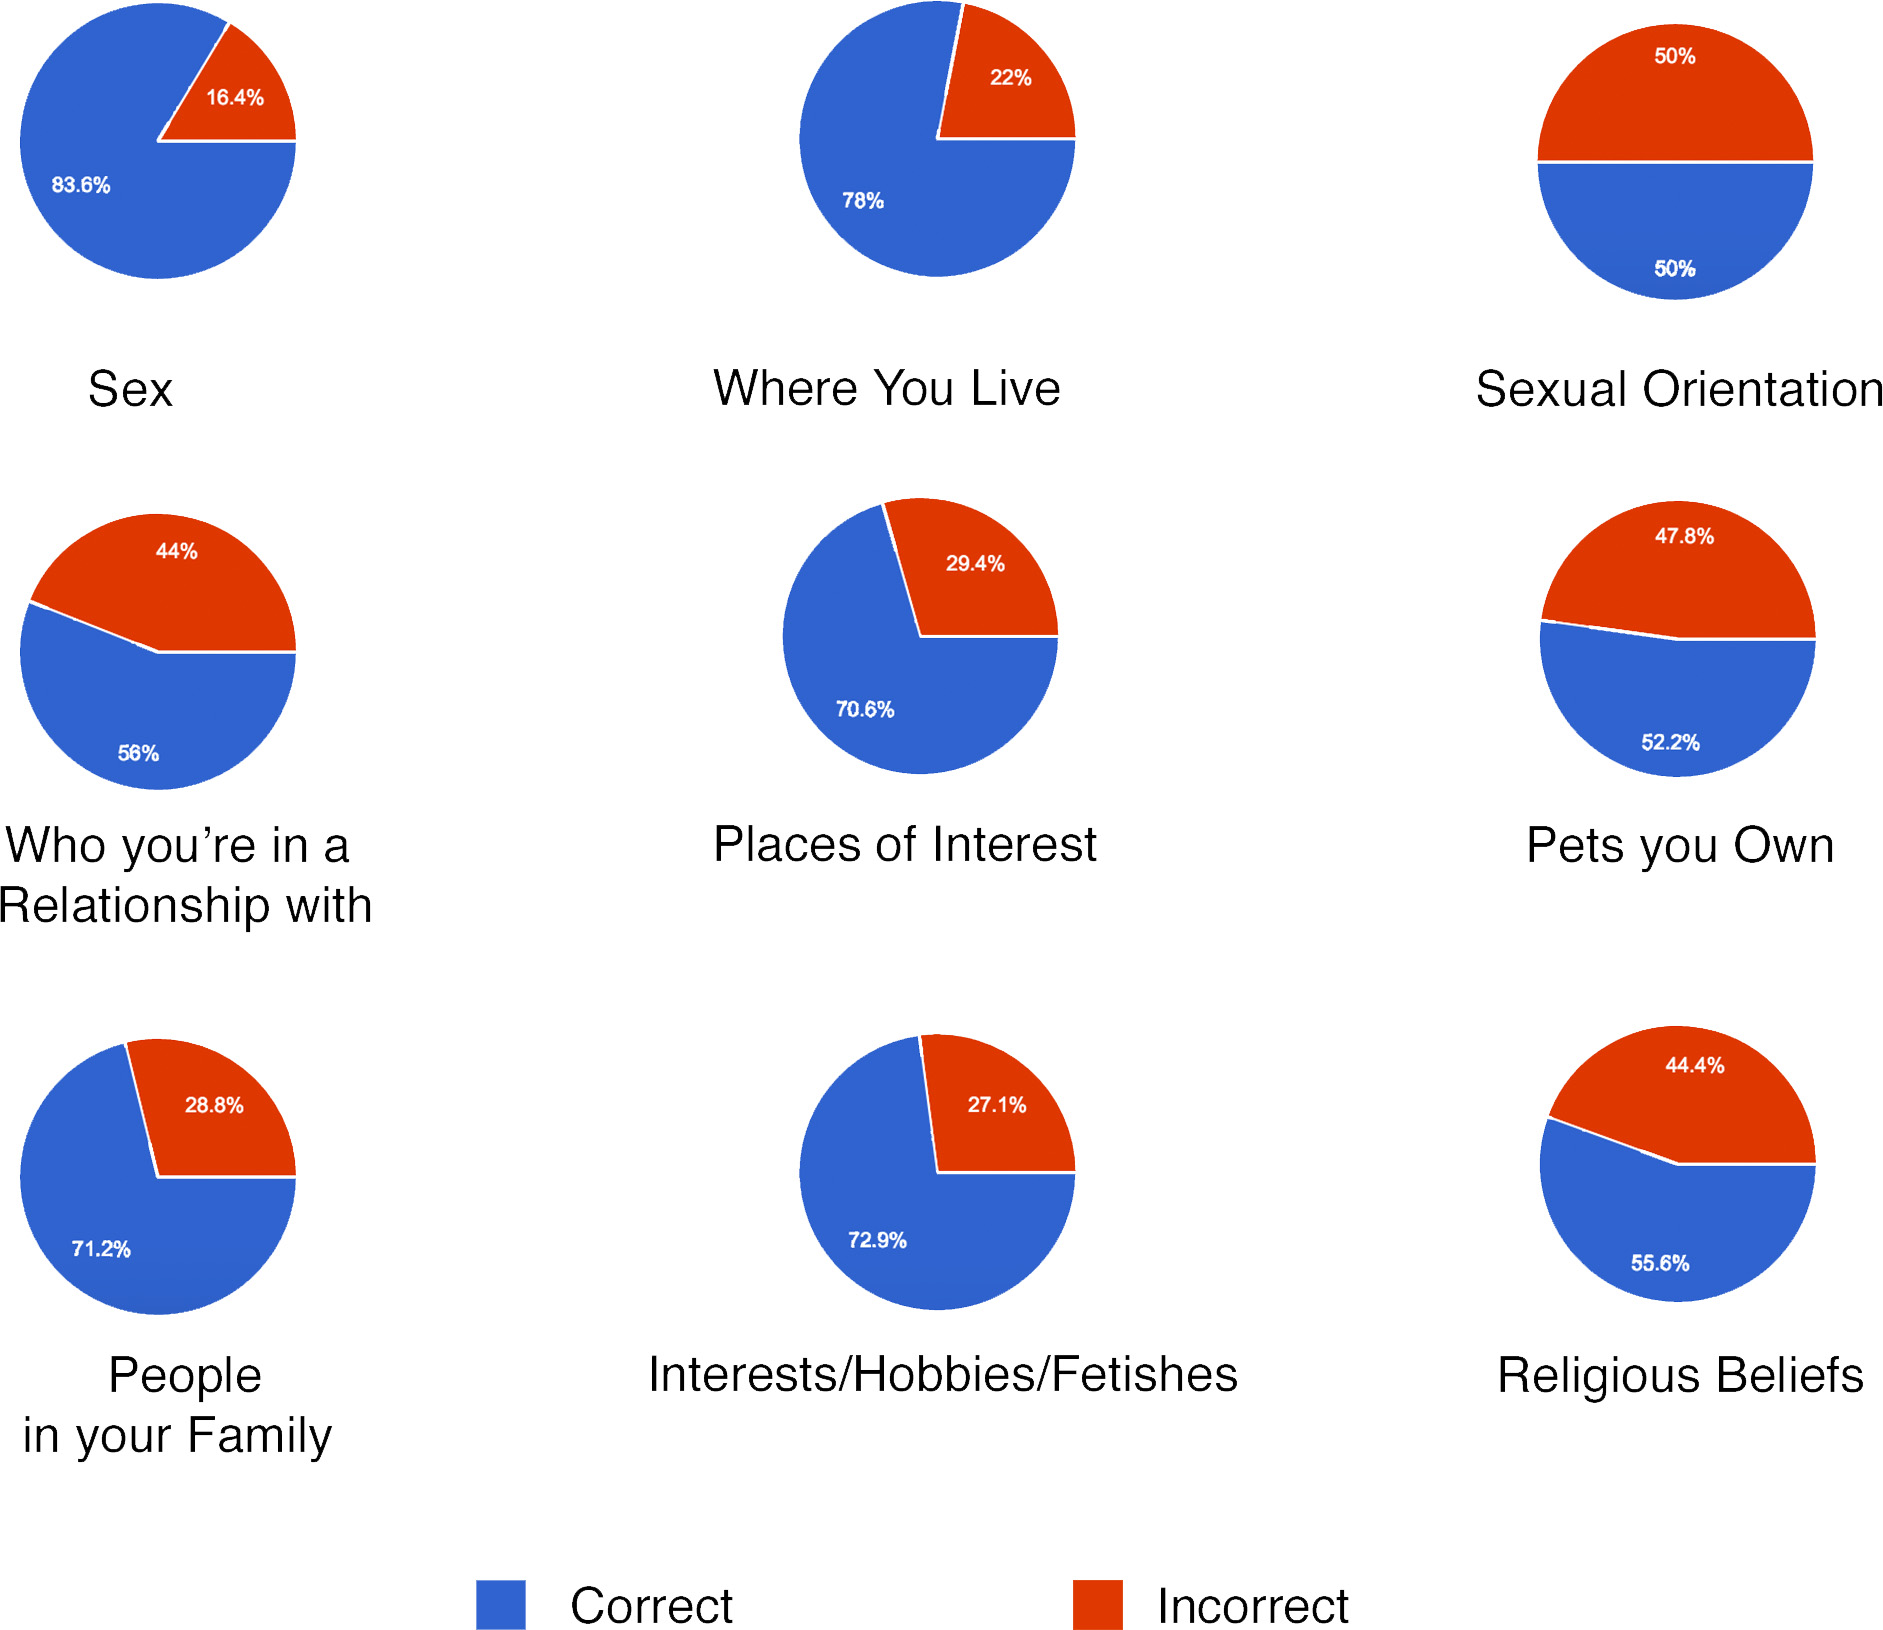
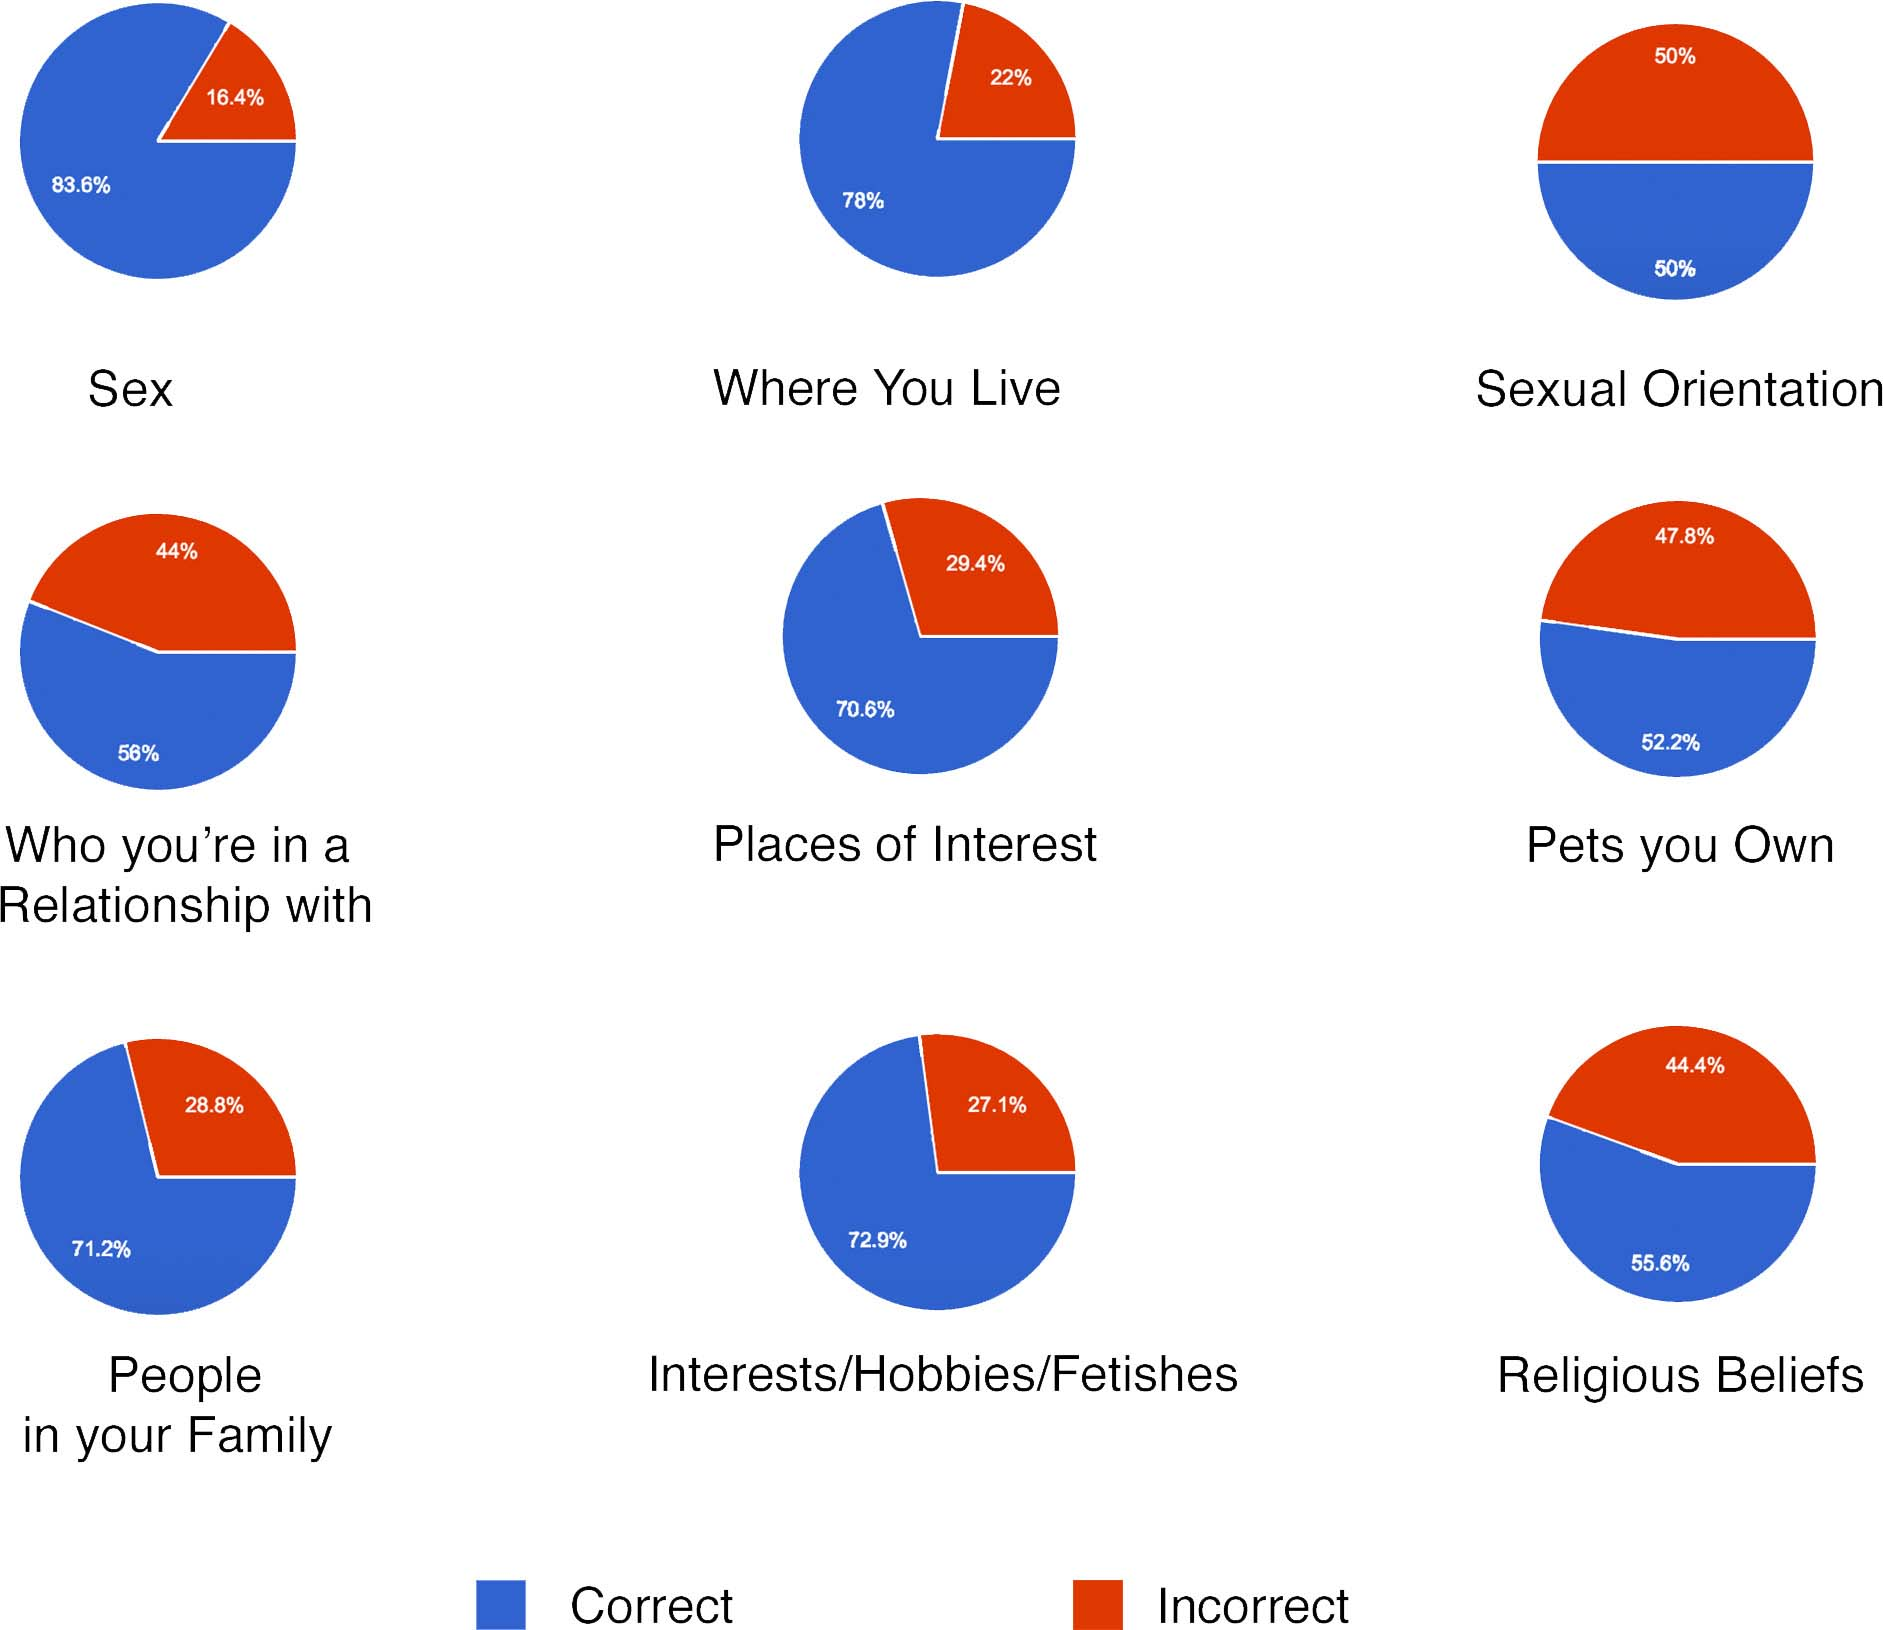
changed all images to jpg

diff --git a/projects/focus.html b/projects/focus.html
@@ -99,14 +99,14 @@
 								<h2>Features</h2>
 								<ul class="bxslider">
   <li class="app-feature">
-  	<img src="../images/project_images/focus/screen1.png"/>
+  	<img src="../images/project_images/focus/screen1.jpg"/>
   	<div class="app-feature content">
   		<h3>Configure Utility</h3>
 								<p>Every user is enabled to pick out which apps to track and select (on a scale of 1-10) how useful an app is to them. A simple way of explaining this to the user was, <i>“How many times out of 10 do use app A for productive tasks?”</i></p>
   	</div>
   </li>
   <li class="app-feature">
-  	<img src="../images/project_images/focus/screen2.png"/>
+  	<img src="../images/project_images/focus/screen2.jpg"/>
   	<div class="app-feature content">
 								<h3>Real Time Monitoring</h3>
 
@@ -115,7 +115,7 @@
   	</div>
   </li>
   <li class="app-feature">
-  	<img src="../images/project_images/focus/screen3.png"/>
+  	<img src="../images/project_images/focus/screen3.jpg"/>
   	<div class="app-feature content">
   		<h3>Aggregate Statistics</h3>
 
@@ -124,7 +124,7 @@
   	</div>
   </li>
   <li class="app-feature">
-  	<img src="../images/project_images/focus/screen4.png"/>
+  	<img src="../images/project_images/focus/screen4.jpg"/>
   	<div class="app-feature content">
   		<h3>App Wise Breakdown</h3>
 
@@ -133,7 +133,7 @@
   </li>
 
   <li class="app-feature">
-  	<img src="../images/project_images/focus/screen5.png"/>
+  	<img src="../images/project_images/focus/screen5.jpg"/>
   	<div class="app-feature content">
 								<h3>Zen Mode</h3>
 
@@ -149,15 +149,15 @@
   </ul>
 
 								<h2>Iterations</h2>
-  	<img class="project-img" src="../images/project_images/focus/pic1.png"/>
+  	<img class="project-img" src="../images/project_images/focus/pic1.jpg"/>
 <p>The initial design was meant to be extremely minimalist. A static single screen was used to show the user their progress. This screen also housed basic icons which would lead to different screens for different purposes. The idea was to put a spotlight on the main activity of the app, that is to monitor your daily productivity, while letting the users go to other screens on a need basis.</p>
-	<img class="project-img" src="../images/project_images/focus/pic2.png"/>
+	<img class="project-img" src="../images/project_images/focus/pic2.jpg"/>
 <p>Primary evaluations of that prototype lead us to modify the UI such that it is more intuitive. User’s wanted equally quick access to other screens as well. Plus, they would often tend to quickly switch across multiple screens to understand their phone usage better. The next iteration improved upon this feedback by placing the major screens as laterally navigable tabs. Infrequent tasks were collapsed and placed in a hamburger menu.</p>
-  	  	<img class="project-img" src="../images/project_images/focus/pic3.png"/>
+  	  	<img class="project-img" src="../images/project_images/focus/pic3.jpg"/>
 <p>As a solution FOCUS strongly hinges on user input to gauge the productivity of an app while monitoring it. Often some users would forget or ignore this aspect. Consequently their app would not produce the best results. In order to ensure users provide the initial impetus required to make FOCUS work, overlay tutorials triggered when the app starts. This behaved as a virtual tour for the user.</p>
 
 <p>For the solution to this problem, the original concept was expected to be thorough, i.e. it tracks all apps. What subsequent evaluations revealed was that this can lead to a lot of noise, while a user is only interested in understanding their engagement with particular apps. An opt-in based mechanism with normalised ratings were given to every app on the phone. Now, every user could personally configure what FOCUS tracks.</p>
-  	<img class="project-img" src="../images/project_images/focus/pic4.png"/>
+  	<img class="project-img" src="../images/project_images/focus/pic4.jpg"/>
 <p>The last user study that was conducted had testers use the app on their own phones for over a week. At the end of this duration they answered a questionnaire. New areas of improvement came to light. These are especially relevant since this app is supposed to be a long-term lifestyle app</p>
 							<h2>Existing Alternative</h2>
 <p><a href="https://play.google.com/store/apps/details?id=com.zerodesktop.appdetox.qualitytime" target="_blank">QualityTime</a> is an app on the Google Play Store that is motivated by a similar problem. Although QT’s approach relies on simply displaying the user raw duration based data. It doesn’t quantify the productivity in anyway, rather expecting the user to mentally work that bit out. However, it is far most robust and extensive in the breadth of its information.</p>

diff --git a/projects/snooknows.html b/projects/snooknows.html
@@ -100,14 +100,14 @@
 								<h2>Features</h2>
 								<ul class="bxslider">
   <li class="web-feature">
-  	<img src="../images/project_images/snooknows/screen1.png"/>
+  	<img src="../images/project_images/snooknows/screen1.jpg"/>
   	<div class="web-feature content">
   		<h3>Dynamic Data Fetch</h3>
 								<p>Any reddit user can use this tool to understand their vulnerability. Due to latency issues, currently it fetches the top 100 comments by the user. However this can be extended to larger bulks as the processing stage becomes faster.</i></p>
   	</div>
   </li>
   <li class="web-feature">
-  	<img src="../images/project_images/snooknows/screen2.png"/>
+  	<img src="../images/project_images/snooknows/screen2.jpg"/>
   	<div class="web-feature content">
 								<h3>Vulnerability Score</h3>
 
@@ -118,7 +118,7 @@ This score was determined based on a prior study where respondents rated how vul
   	</div>
   </li>
   <li class="web-feature">
-  	<img src="../images/project_images/snooknows/screen3.png"/>
+  	<img src="../images/project_images/snooknows/screen3.jpg"/>
   	<div class="web-feature content">
   		<h3>Subreddit Distribution</h3>
 
@@ -128,7 +128,7 @@ This score was determined based on a prior study where respondents rated how vul
   	</div>
   </li>
   <li class="web-feature">
-  	<img src="../images/project_images/snooknows/screen4.png"/>
+  	<img src="../images/project_images/snooknows/screen4.jpg"/>
   	<div class="web-feature content">
   		<h3>Most Vulnerable Combination</h3>
 
@@ -157,7 +157,7 @@ The best way to understand this is, <i>“50% of people feel vulnerable only whe
 The API also gives the broad list of topics based on the text based on a “contextual score”. </p>
 
 <h3>Data sensitivity analysis</h3>
-  	  	<img class="project-img" src="../images/project_images/snooknows/pic3.png"/>
+  	  	<img class="project-img" src="../images/project_images/snooknows/pic3.jpg"/>
   	  	<p><i>img. </i> How vulnerable on a scale of 1-10 an average users feel if a predator learns of about one of the fields</p>
 
 <p>Another survey was floated to analyse what kind of data, if gathered about anonymous users, could be sensitive and thereby potentially used against them for harassment. This survey was sent to the students in the institute and to the Reddit community for results. These were then combined at the end, for analysis, and used to come up with a vulnerability score for a Reddit user.

diff --git a/projects/police_on_osm.html b/projects/police_on_osm.html
@@ -102,14 +102,14 @@
 								<h2>Features</h2>
 								<ul class="bxslider">
   <li class="web-feature">
-  	<img src="../images/project_images/police_on_osm/screen1.png"/>
+  	<img src="../images/project_images/police_on_osm/screen1.jpg"/>
   	<div class="web-feature content">
   		<h3>State Wise Indexing</h3>
 								<p>A clickable map of India allows users to select a state and segregate departments that belong to it. This makes it easier to search for departments and also get exposed to neighbouring departments.</p>
   	</div>
   </li>
   <li class="web-feature">
-  	<img src="../images/project_images/police_on_osm/screen2.png"/>
+  	<img src="../images/project_images/police_on_osm/screen2.jpg"/>
   	<div class="web-feature content">
 								<h3>Activity Analytics</h3>
 
@@ -119,7 +119,7 @@
   	</div>
   </li>
   <li class="web-feature">
-  	<img src="../images/project_images/police_on_osm/screen3.png"/>
+  	<img src="../images/project_images/police_on_osm/screen3.jpg"/>
   	<div class="web-feature content">
   		<h3>Accountability Tree</h3>
 
@@ -129,7 +129,7 @@
   	</div>
   </li>
   <li class="web-feature">
-  	<img src="../images/project_images/police_on_osm/screen4.png"/>
+  	<img src="../images/project_images/police_on_osm/screen4.jpg"/>
   	<div class="web-feature content">
   		<h3>Word Cloud</h3>
 
@@ -137,7 +137,7 @@
 
   </li>
     <li class="web-feature">
-  	<img src="../images/project_images/police_on_osm/screen5.png"/>
+  	<img src="../images/project_images/police_on_osm/screen5.jpg"/>
   	<div class="web-feature content">
   		<h3>Sentiment Analysis</h3>
 

diff --git a/projects/energylens.html b/projects/energylens.html
@@ -102,14 +102,14 @@ It records various environmental data (including light, sound and connectivity) 
 								<h2>Features</h2>
 								<ul class="bxslider">
   <li class="app-feature">
-  	<img src="../images/project_images/energylens/screen1.png"/>
+  	<img src="../images/project_images/energylens/screen1.jpg"/>
   	<div class="web-feature content">
   		<h3>Monitor Energy Consumption and Wastage</h3>
 								<p>The tabular navigation of the app allows the user to view the hourly wastage and consumption of energy over the last 12 hours.</p>
   	</div>
   </li>
   <li class="app-feature">
-  	<img src="../images/project_images/energylens/screen2.png"/>
+  	<img src="../images/project_images/energylens/screen2.jpg"/>
   	<div class="web-feature content">
 								<h3>Disaggregated Data for Each Appliance</h3>
 
@@ -119,7 +119,7 @@ It records various environmental data (including light, sound and connectivity) 
   	</div>
   </li>
   <li class="app-feature">
-  	<img src="../images/project_images/energylens/screen3.png"/>
+  	<img src="../images/project_images/energylens/screen3.jpg"/>
   	<div class="web-feature content">
   		<h3>Real-Time Energy Monitoring</h3>
 
